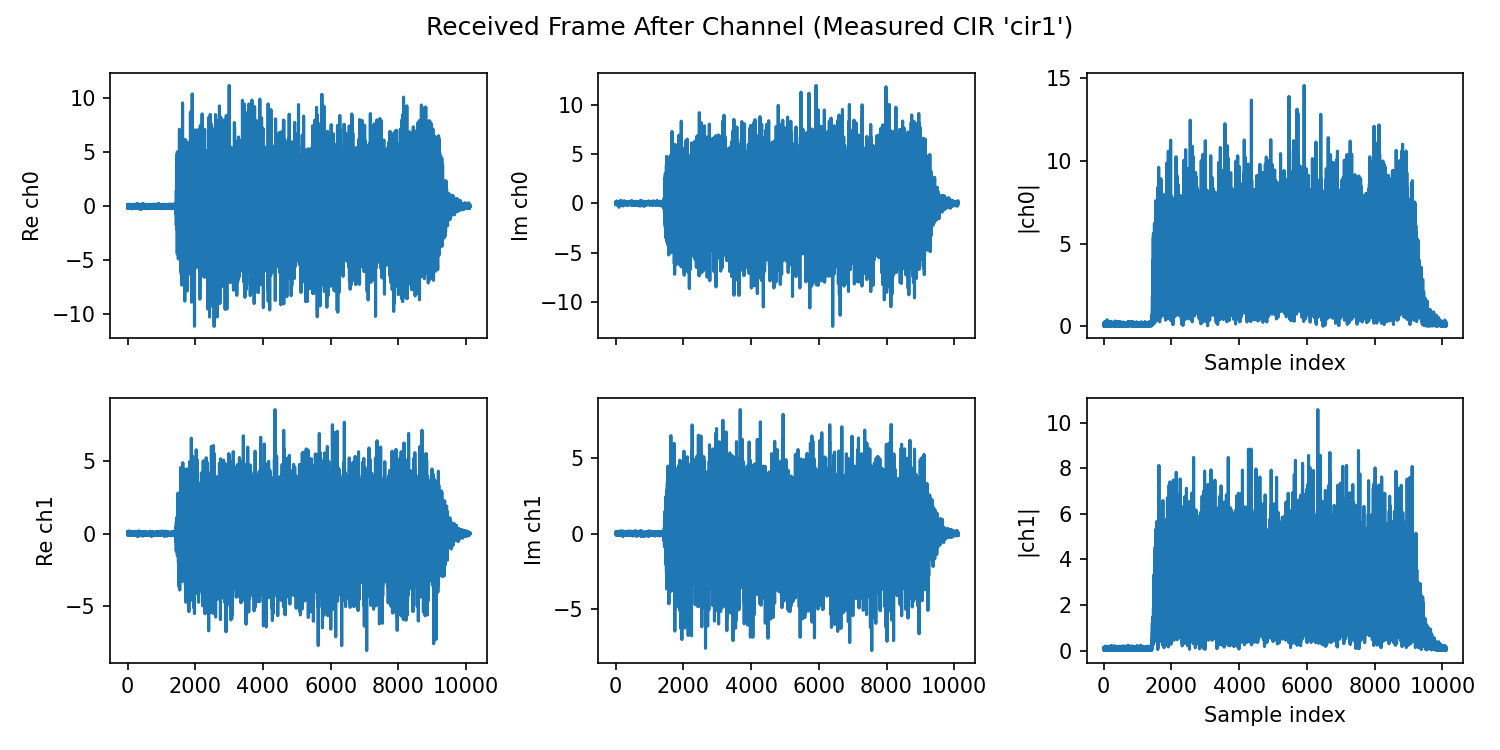
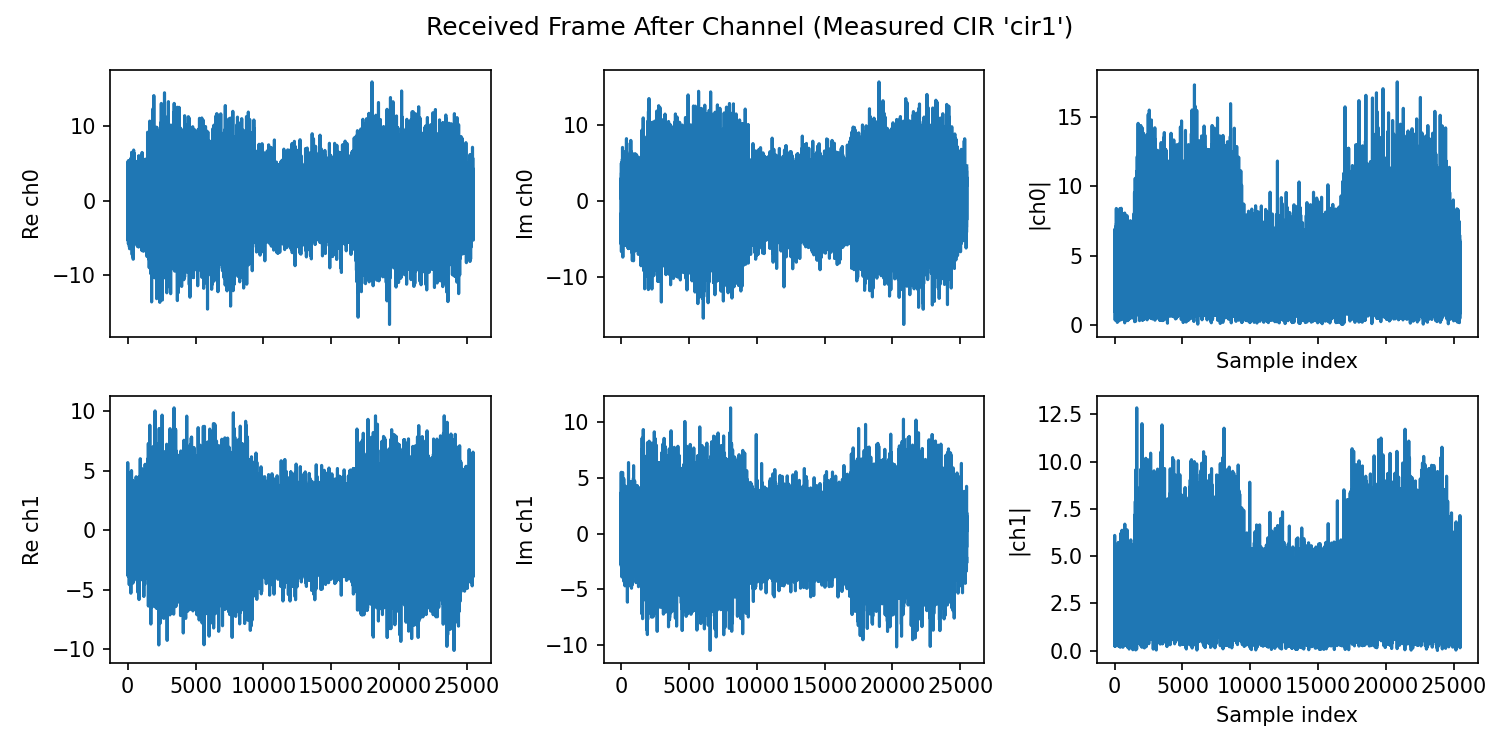
added preamble detection as done for the rtl. it works good?

diff --git a/minn_rtl.py b/minn_rtl.py
@@ -347,9 +347,15 @@ def minn_rtl_streaming_metric(
 
 
 @dataclass
+class MinnRTLEvent:
+    peak_index: int
+    detected_index: int
+    gate_segment: tuple[int, int]
+
+
+@dataclass
 class MinnRTLDetection:
-    detected_index: int | None
-    peak_index: int | None
+    events: list[MinnRTLEvent]
     gate_mask: np.ndarray
     gate_segments: list[tuple[int, int]]
 
@@ -367,13 +373,12 @@ def detect_minn_rtl(
     length = corr.size
 
     gate_segments: list[tuple[int, int]] = []
+    events: list[MinnRTLEvent] = []
     gate_open = False
     gate_start: int | None = None
     peak_value = 0.0
     peak_index = 0
     low_counter = 0
-    detected_index: int | None = None
-    detected_peak: int | None = None
     hyst_limit = hysteresis - 1 if hysteresis > 0 else 0
 
     for idx in range(length):
@@ -394,29 +399,30 @@ def detect_minn_rtl(
             if above[idx]:
                 low_counter = 0
             else:
+                closing = False
                 if hysteresis == 0:
-                    if detected_index is None:
-                        detected_index = peak_index + timing_offset
-                        detected_peak = peak_index
-                    gate_open = False
-                    if gate_start is not None:
-                        gate_segments.append((gate_start, idx + 1))
-                        gate_start = None
-                    peak_value = 0.0
-                    low_counter = 0
+                    closing = True
                 else:
                     if low_counter == hyst_limit:
-                        if detected_index is None:
-                            detected_index = peak_index + timing_offset
-                            detected_peak = peak_index
-                        gate_open = False
-                        if gate_start is not None:
-                            gate_segments.append((gate_start, idx + 1))
-                            gate_start = None
-                        peak_value = 0.0
-                        low_counter = 0
+                        closing = True
                     else:
                         low_counter += 1
+                if closing:
+                    detected_index = peak_index + timing_offset
+                    segment_start = gate_start if gate_start is not None else idx
+                    segment = (segment_start, idx + 1)
+                    gate_segments.append(segment)
+                    events.append(
+                        MinnRTLEvent(
+                            peak_index=peak_index,
+                            detected_index=detected_index,
+                            gate_segment=segment,
+                        )
+                    )
+                    gate_open = False
+                    gate_start = None
+                    peak_value = 0.0
+                    low_counter = 0
 
     if gate_open and gate_start is not None:
         gate_segments.append((gate_start, length))
@@ -426,15 +432,14 @@ def detect_minn_rtl(
         gate_mask[start:end] = True
 
     return MinnRTLDetection(
-        detected_index=detected_index,
-        peak_index=detected_peak,
+        events=events,
         gate_mask=gate_mask,
         gate_segments=gate_segments,
     )
 
 
 # Detector and channel parameters
-SNR_DB = 30.0
+SNR_DB = 0.0
 CFO_HZ = 1000.0
 SMOOTH_SHIFT = 3
 THRESH_FRAC_BITS = 15
@@ -481,7 +486,11 @@ def run_simulation(channel_name: str | None, plots_subdir: str) -> None:
     pilot_symbol, pilot_used = build_random_qpsk_symbol(rng, include_cp=True)
     data_symbol, data_used = build_random_qpsk_symbol(rng, include_cp=True)
     frame = np.concatenate((minn_preamble, pilot_symbol, data_symbol))
-    tx_samples = np.concatenate((np.zeros(TX_PRE_PAD_SAMPLES, dtype=complex), frame))
+    frame_len = frame.size
+    inter_guard = np.zeros(frame_len, dtype=complex)
+    leading_guard = np.zeros(TX_PRE_PAD_SAMPLES, dtype=complex)
+    tx_samples = np.concatenate((leading_guard, frame, inter_guard, frame))
+    frame_starts = [leading_guard.size, leading_guard.size + frame_len + inter_guard.size]
 
     if channel_name is None:
         channel_impulse_response = None
@@ -512,10 +521,13 @@ def run_simulation(channel_name: str | None, plots_subdir: str) -> None:
         timing_offset=TIMING_OFFSET,
     )
 
-    if detection.detected_index is not None:
-        detected_start = int(detection.detected_index)
-        peak_position = int(detection.peak_index if detection.peak_index is not None else detected_start)
+    events = detection.events
+    if events:
+        primary_event = events[0]
+        detected_start = int(primary_event.detected_index)
+        peak_position = int(primary_event.peak_index)
     else:
+        primary_event = None
         peak_position = int(np.argmax(metric_state.smooth_metric))
         detected_start = peak_position + TIMING_OFFSET
 
@@ -530,9 +542,22 @@ def run_simulation(channel_name: str | None, plots_subdir: str) -> None:
             cir_plot_path,
         )
 
-    true_cp_start = TX_PRE_PAD_SAMPLES + channel_peak_offset
-    expected_n_start = true_cp_start + CYCLIC_PREFIX
-    timing_error = detected_start - expected_n_start
+    true_cp_starts = [start + channel_peak_offset for start in frame_starts]
+    expected_n_starts = [cp_start + CYCLIC_PREFIX for cp_start in true_cp_starts]
+    if expected_n_starts:
+        primary_expected = expected_n_starts[0]
+        timing_error = detected_start - primary_expected
+    else:
+        primary_expected = 0
+        timing_error = detected_start
+    peak_lines = [evt.peak_index for evt in events] if events else [peak_position]
+    detected_lines = [evt.detected_index for evt in events] if events else [detected_start]
+    per_event_errors: list[int | None] = []
+    for idx, evt in enumerate(events):
+        if idx < len(expected_n_starts):
+            per_event_errors.append(evt.detected_index - expected_n_starts[idx])
+        else:
+            per_event_errors.append(None)
 
     channel_desc = f"Measured CIR '{channel_name}'" if channel_name else "Flat AWGN"
 
@@ -548,8 +573,12 @@ def run_simulation(channel_name: str | None, plots_subdir: str) -> None:
     for idx, (start, end) in enumerate(gate_segments):
         gate_label = "Gate window" if idx == 0 else None
         plt.axvspan(start, end, color="tab:orange", alpha=0.15, label=gate_label)
-    plt.axvline(peak_position, color="tab:red", linestyle=":", label=f"Peak @ {peak_position}")
-    plt.axvline(expected_n_start, color="tab:green", linestyle="--", label="Expected N start")
+    for idx, peak in enumerate(peak_lines):
+        peak_label = "Detected peak" if idx == 0 else None
+        plt.axvline(peak, color="tab:red", linestyle=":", label=peak_label)
+    for idx, expected in enumerate(expected_n_starts):
+        exp_label = "Expected N start" if idx == 0 else None
+        plt.axvline(expected, color="tab:green", linestyle="--", label=exp_label)
     plt.xlabel("Sample index d")
     plt.ylabel("Metric")
     plt.title(f"Minn RTL Metric & Gate - {channel_desc}")
@@ -568,9 +597,15 @@ def run_simulation(channel_name: str | None, plots_subdir: str) -> None:
     for seg_idx, (start, end) in enumerate(gate_segments):
         gate_label = "Gate window" if seg_idx == 0 else None
         axes[0].axvspan(start, end, color="tab:orange", alpha=0.18, label=gate_label)
-    axes[0].axvline(true_cp_start, color="tab:purple", linestyle="--", label="CP start (true)")
-    axes[0].axvline(expected_n_start, color="tab:green", linestyle="--", label="N start (exp)")
-    axes[0].axvline(detected_start, color="tab:red", linestyle=":", label="Detected start")
+    for idx, cp_start in enumerate(true_cp_starts):
+        cp_label = "CP start (true)" if idx == 0 else None
+        axes[0].axvline(cp_start, color="tab:purple", linestyle="--", label=cp_label)
+    for idx, expected in enumerate(expected_n_starts):
+        exp_label = "N start (exp)" if idx == 0 else None
+        axes[0].axvline(expected, color="tab:green", linestyle="--", label=exp_label)
+    for idx, det in enumerate(detected_lines):
+        det_label = "Detected start" if idx == 0 else None
+        axes[0].axvline(det, color="tab:red", linestyle=":", label=det_label)
     axes[0].set_ylabel("Magnitude")
     axes[0].set_title(f"Received Magnitude and Detected Start (Minn RTL, {channel_desc})")
     axes[0].legend(loc="upper right")
@@ -585,8 +620,12 @@ def run_simulation(channel_name: str | None, plots_subdir: str) -> None:
     axes[1].plot(thresh_trace, label="Threshold (scaled)", color="tab:green", linestyle=":")
     for start, end in gate_segments:
         axes[1].axvspan(start, end, color="tab:orange", alpha=0.12)
-    axes[1].axvline(peak_position, color="tab:red", linestyle=":", label=f"Peak @ {peak_position}")
-    axes[1].axvline(expected_n_start, color="tab:green", linestyle="--", label="Expected N start")
+    for idx, peak in enumerate(peak_lines):
+        peak_label = "Detected peak" if idx == 0 else None
+        axes[1].axvline(peak, color="tab:red", linestyle=":", label=peak_label)
+    for idx, expected in enumerate(expected_n_starts):
+        exp_label = "Expected N start" if idx == 0 else None
+        axes[1].axvline(expected, color="tab:green", linestyle="--", label=exp_label)
     axes[1].set_xlabel("Sample index d")
     axes[1].set_ylabel("Metric")
     axes[1].set_title("Timing Metrics (Minn RTL)")
@@ -596,7 +635,7 @@ def run_simulation(channel_name: str | None, plots_subdir: str) -> None:
     fig.savefig(results_plot_path, dpi=150)
     plt.close(fig)
 
-    plot_time_series(tx_samples, "Transmit Frame (with Leading Zeros)", tx_plot_path)
+    plot_time_series(tx_samples, "Transmit Frame (two Minn frames with guard)", tx_plot_path)
     plot_time_series(rx_samples, f"Received Frame After Channel ({channel_desc})", rx_plot_path)
 
     preamble_n_start_est = detected_start
@@ -657,20 +696,39 @@ def run_simulation(channel_name: str | None, plots_subdir: str) -> None:
         )
     else:
         print("Channel profile: Flat AWGN (no multipath)")
-    print(f"\nTiming Detection:")
-    print(f"  Detected peak at d={peak_position}")
-    print(f"  Detected start after timing offset: d={detected_start}")
-    print(f"  Expected N start at d={expected_n_start}")
-    print(f"  Timing error: {timing_error} samples ({abs(timing_error)/N_FFT*100:.1f}% of symbol)")
-    if gate_segments:
-        gate_start, gate_end = gate_segments[0][0], gate_segments[-1][1]
-        frac = THRESH_VALUE / float(1 << THRESH_FRAC_BITS)
-        print(
-            f"  RTL gate window: [{gate_start}, {gate_end}) "
-            f"(threshold >={frac:.1%} of energy proxy, span {gate_end - gate_start} samples)",
-        )
+    print(f"\nTiming Detections:")
+    if events:
+        print(f"  Detected {len(events)} event(s)")
+        for idx, evt in enumerate(events):
+            expected = expected_n_starts[idx] if idx < len(expected_n_starts) else None
+            err = per_event_errors[idx] if idx < len(per_event_errors) else None
+            if expected is not None and err is not None:
+                print(
+                    f"    Event {idx}: peak={evt.peak_index} detected={evt.detected_index} "
+                    f"expected={expected} error={err} samples"
+                )
+            else:
+                print(
+                    f"    Event {idx}: peak={evt.peak_index} detected={evt.detected_index} "
+                    "(no expected reference)"
+                )
     else:
-        print("  RTL gate not triggered (metric never exceeded threshold)")
+        print(f"  No detection events; fallback peak at d={peak_position}")
+    frac = THRESH_VALUE / float(1 << THRESH_FRAC_BITS)
+    if gate_segments:
+        for idx, (start, end) in enumerate(gate_segments):
+            print(
+                f"  Gate {idx}: [{start}, {end}) threshold >={frac:.1%} span {end - start} samples"
+            )
+    else:
+        print("  No gate segments recorded (metric never exceeded threshold)")
+    if events:
+        print("  Event 0 is used for CFO/channel processing.")
+    print(f"  Frame length: {frame_len} samples, guard length: {inter_guard.size} samples")
+    print(
+        f"  Primary timing error: {timing_error} samples "
+        f"({abs(timing_error)/N_FFT*100:.1f}% of symbol)"
+    )
     print(f"\nCarrier Frequency Offset:")
     print(f"  Applied CFO: {CFO_HZ} Hz")
     print(f"  Estimated CFO from CP: {cfo_est_hz:.2f} Hz")
